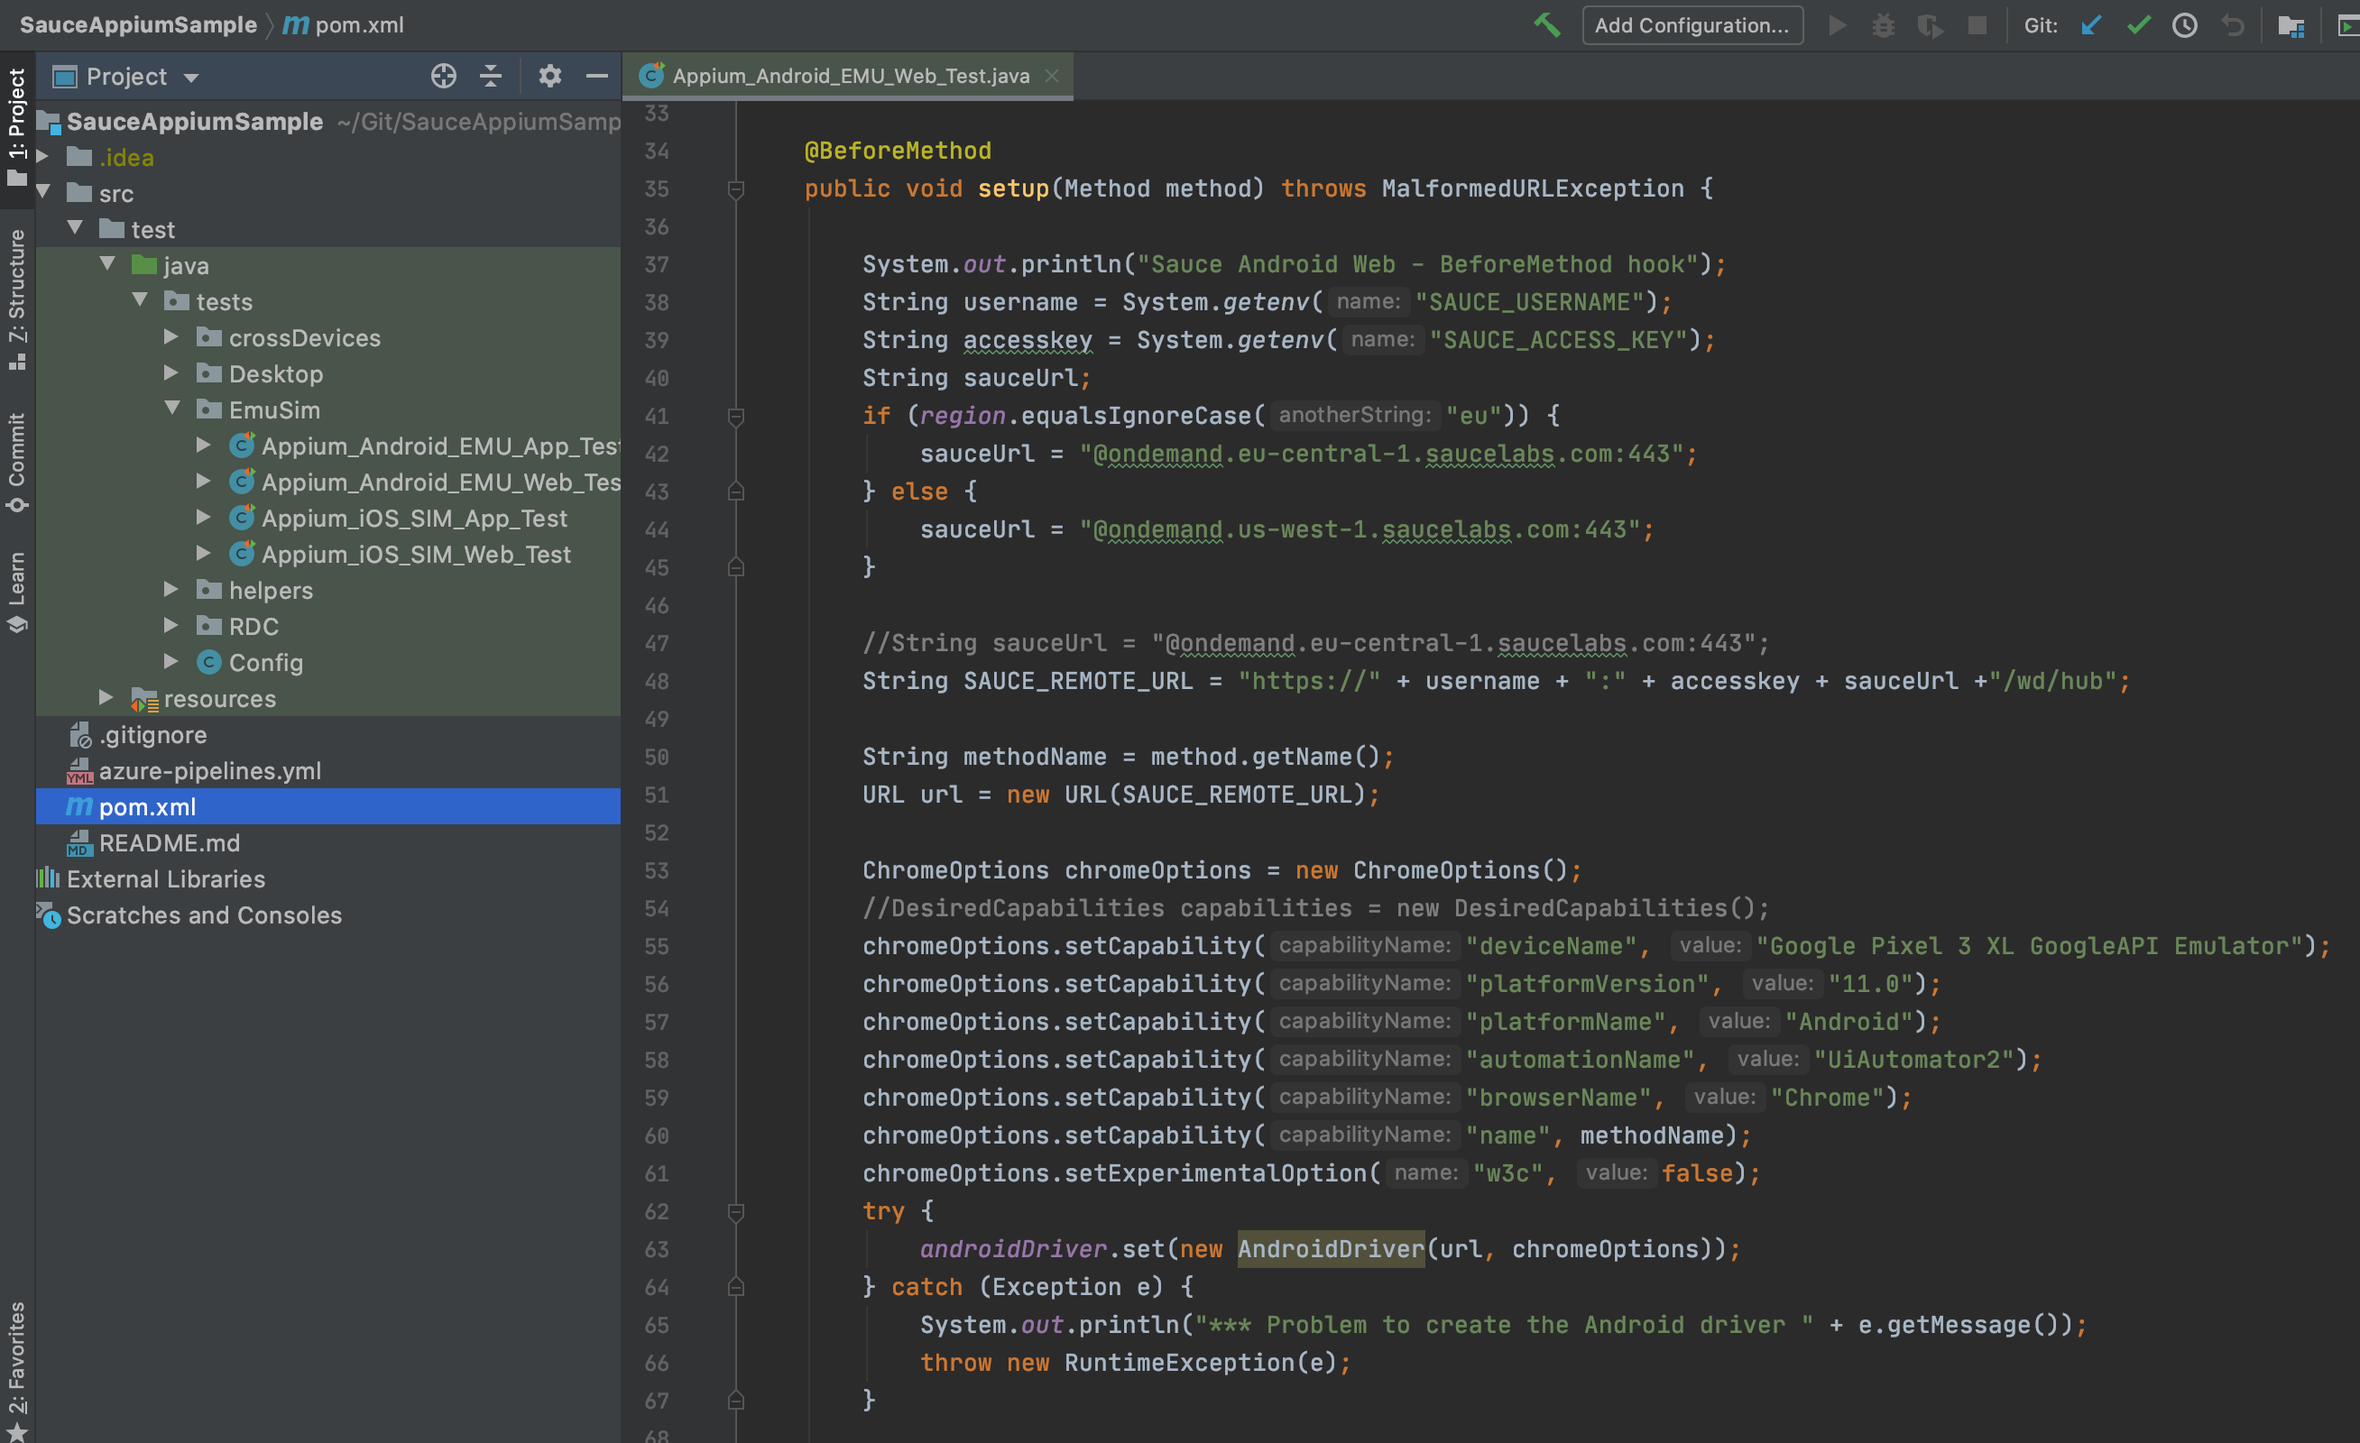
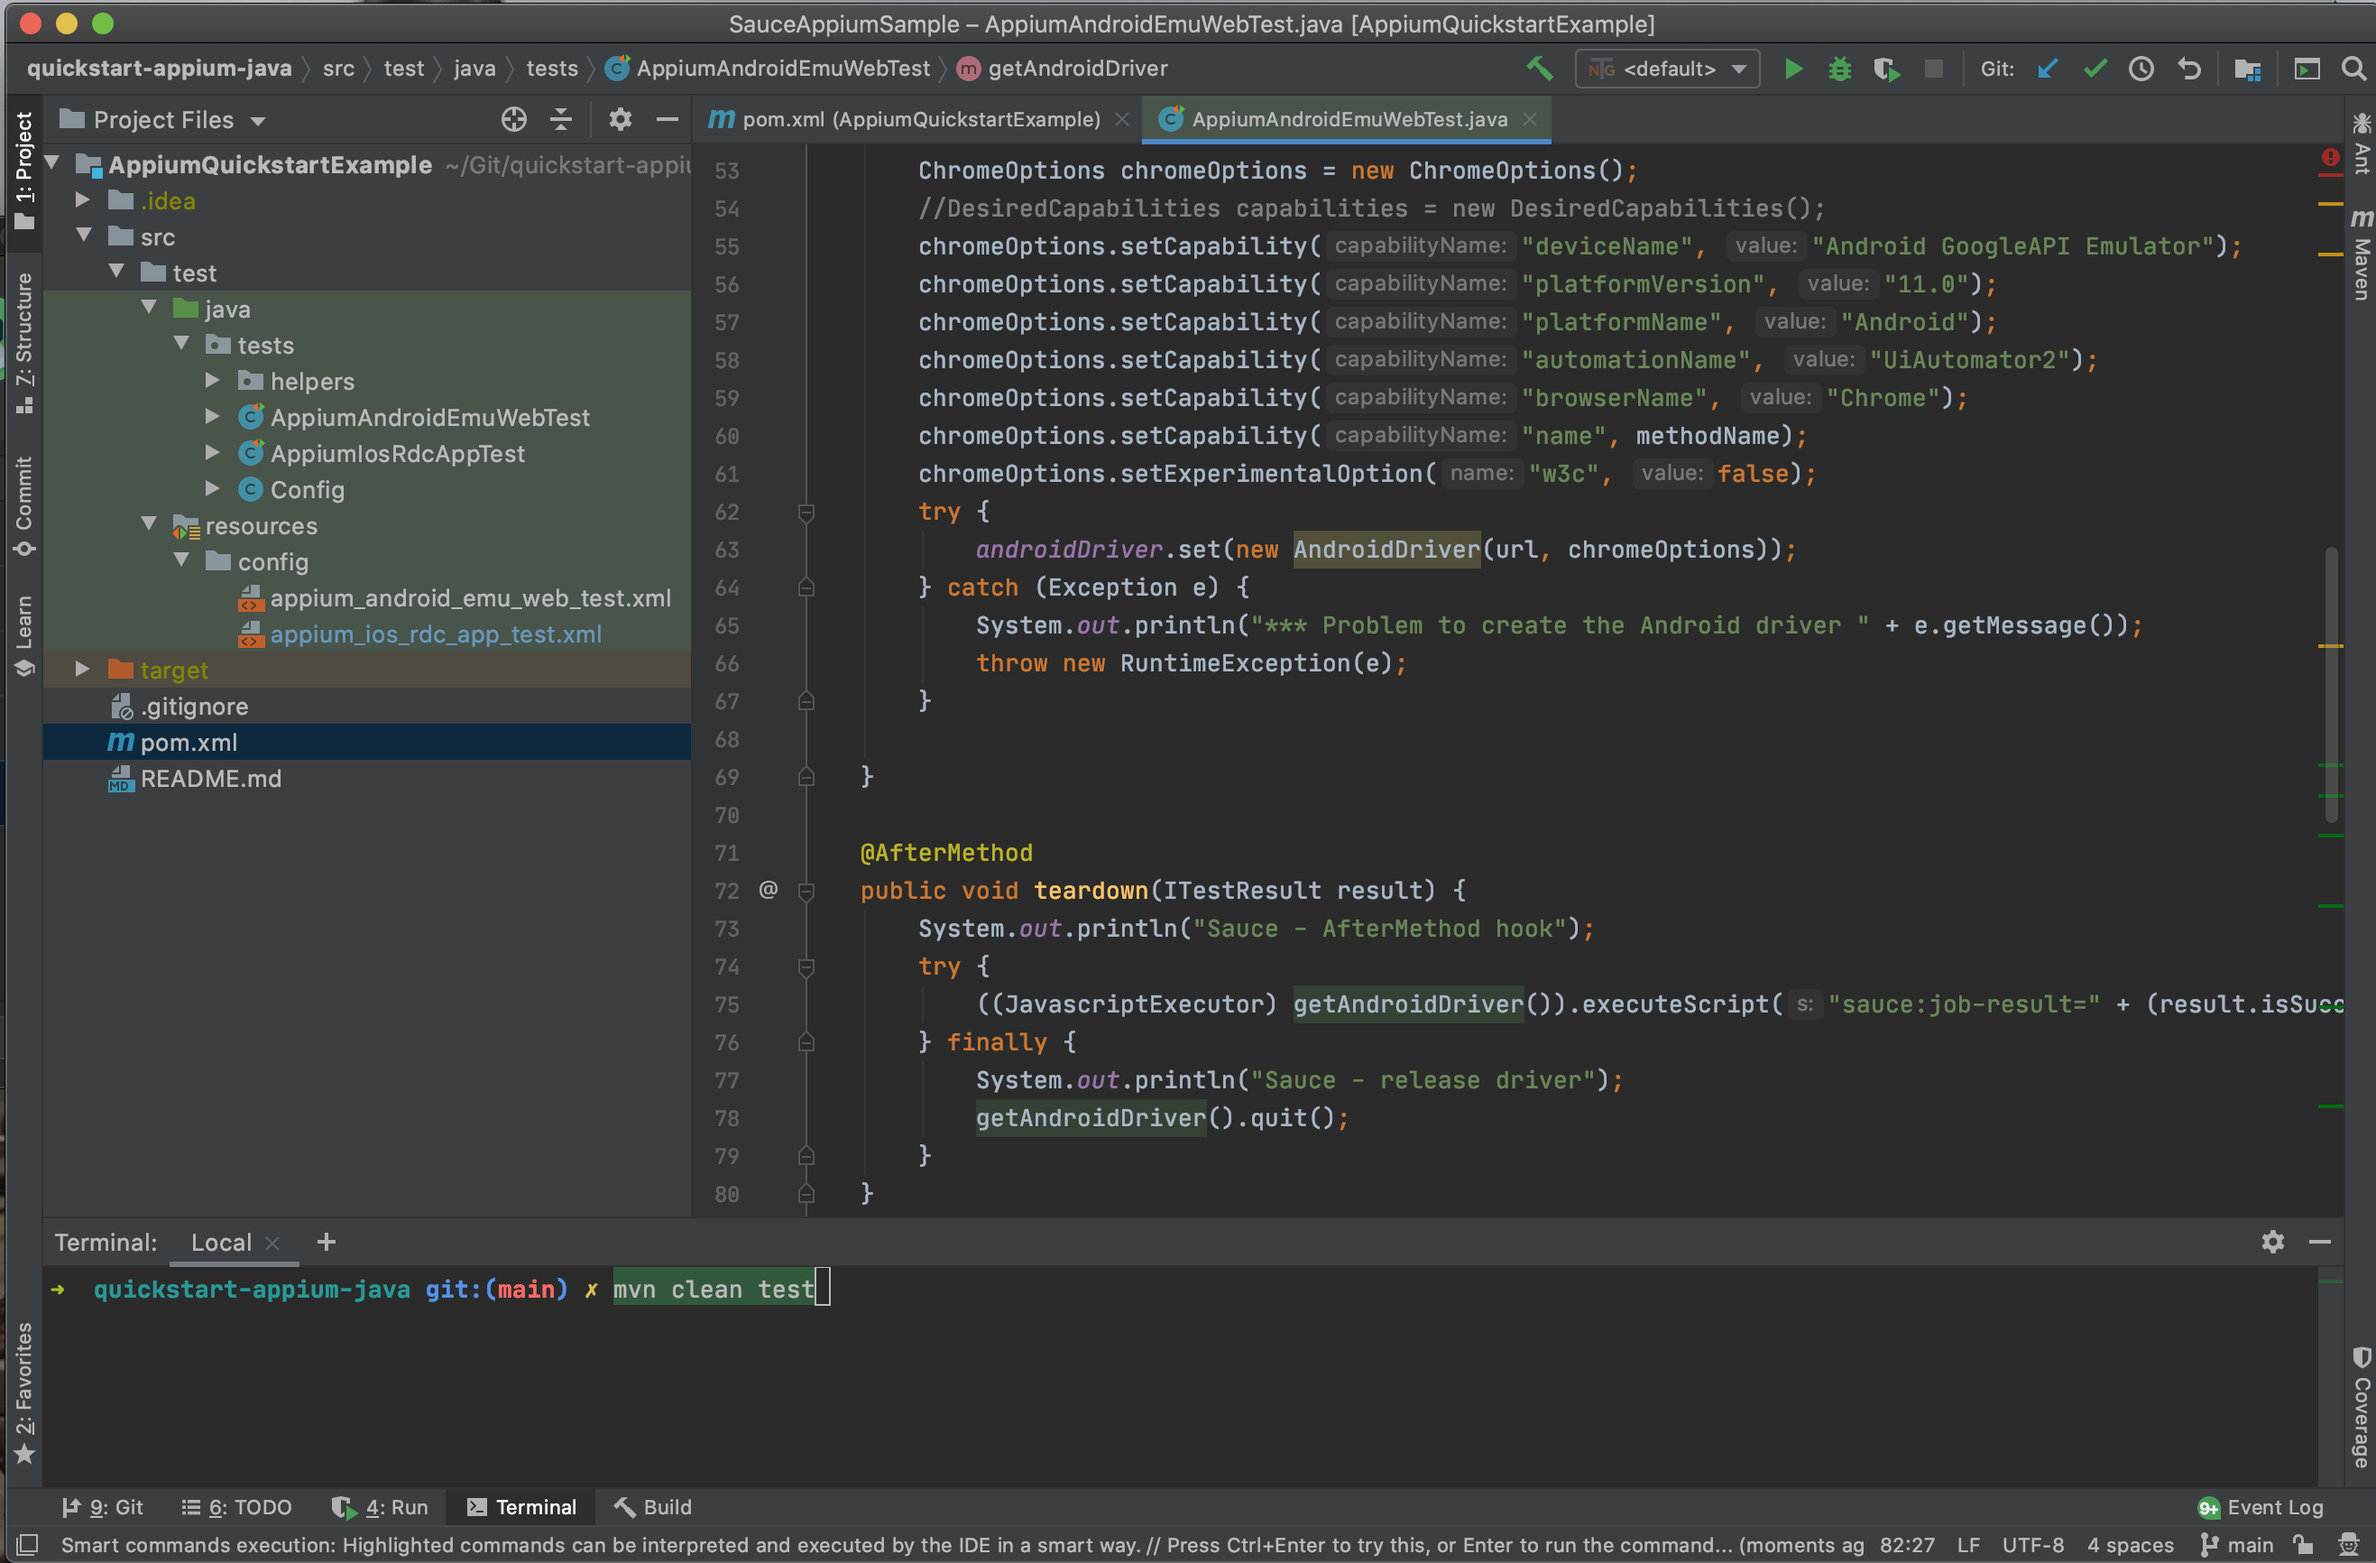
first draft

diff --git a/docs/mobile-apps/automated-testing/appium.md b/docs/mobile-apps/automated-testing/appium.md
@@ -8,14 +8,14 @@ import useBaseUrl from '@docusaurus/useBaseUrl';
 import Tabs from '@theme/Tabs';
 import TabItem from '@theme/TabItem';
 
-This page is intended to provide you with instructions on how to quickly setup Appium tests with Java using the TestNG test runner on an Android Emulator or iOS Simulator, and run tests using the Sauce Labs App and Virtual Device Cloud.
+This page is intended to provide you with instructions on how to quickly setup Appium tests with Java using the TestNG test runner on an Android Emulator or iOS Simulator, and run tests using the Sauce Labs App and Virtual Device Cloud. To see a comprehensive list of example, [check out the appium directory in our demo-java repo](https://github.com/saucelabs-training/demo-java/tree/dff5fd61b8e152efe59e4a8c9e75c644de4e51e0/appium-examples).
 
 You can see more detailed and comprehensive instructions for all use cases can be found in the [Real Devices](https://docs.saucelabs.com/mobile-apps/automated-testing/appium/real-devices) and [Virtual Devices](https://docs.saucelabs.com/mobile-apps/automated-testing/appium/virtual-devices) docs.
 
 
 ## What You'll Need
 
-* [Sample Tests](https://github.com/eyaly/SauceAppiumSample)
+* [Sample Tests](https://github.com/saucelabs-training/quickstart-appium-java)
 * The [Swag Labs Sample App](https://github.com/saucelabs/sample-app-mobile/releases) (App Tests)
 * A [Sauce Labs Username and Access Key](https://saucelabs.com/sign-up)
 * An IDE such as [IntelliJ IDEA](https://www.jetbrains.com/idea/download/#section=mac)
@@ -29,9 +29,9 @@ Make sure you [have Java, an IDE, and Maven installed](https://training.saucelab
 You will also want to set your `SAUCE_USERNAME` and `SAUCE_ACCESS_KEY` as [environment variables](https://www.youtube.com/watch?v=3K1Eu0eTha8).
 
 ### Step 2: Get Test Code
-In the [Sauce Appium sample repo](https://github.com/eyaly/SauceAppiumSample/tree/master/src/test), you will be running the test in the `/src/test/java/tests/EmuSim` directory called `Appium_Android_EMU_Web_Test.java`
+In the [Sauce Appium sample repo](https://github.com/saucelabs-training/quickstart-appium-java/tree/main/src/test/java/tests), you will be running the test in the `/src/test/java/tests` directory called `AppiumAndroidEmuWebTest.java`
 
-With TestNG you specify the tests you want to run using an .xml file to specify which tests are run in the`/resources/xml` [directory](https://github.com/eyaly/SauceAppiumSample/tree/master/src/test/resources/config), by editing the `pom.xml` file. Update the `testngXmlFile` tag to use the correct TestNG xml file:
+With TestNG you specify the tests you want to run using an .xml file in the`/resources/xml` [directory](https://github.com/saucelabs-training/quickstart-appium-java/tree/main/src/test/resources/config), by editing the `pom.xml` file. Update the `testngXmlFile` tag to use the correct TestNG xml file:
 
 ```
 <testngXmlFile>appium_android_emu_web_test.xml</testngXmlFile>
@@ -112,15 +112,15 @@ Video - **[Android Appium Test Environment Setup](https://www.youtube.com/watch?
 ## Quickstart – Test a Mobile App on Sauce Labs Real Devices
 
 ### Step 1: Install Dependencies
-Make sure you [have Java, an IDE, and Maven installed](https://training.saucelabs.com/codelabs/Module1-SeleniumJava/index.html?index=..%2F..SeleniumJava#4) on your computer. To test a mobile web browser you will need either Android Studio or XCode to run an Emulator/ Simulator for testing on.
+Make sure you [have Java, an IDE, and Maven installed](https://training.saucelabs.com/codelabs/Module1-SeleniumJava/index.html?index=..%2F..SeleniumJava#4) on your computer.
 
 You will also want to set your `SAUCE_USERNAME` and `SAUCE_ACCESS_KEY` as [environment variables](https://www.youtube.com/watch?v=3K1Eu0eTha8).
 
 
 ### Step 2: Get Test Code
-In the [Sauce Appium sample repo](https://github.com/eyaly/SauceAppiumSample/tree/master/src/test), you will be running the test in the `/src/test/java/tests/RDC` directory called `Appium_iOS_RDC_App_Test.java`
+In the [Sauce Appium sample repo](https://github.com/saucelabs-training/quickstart-appium-java/tree/main/src/test/java/tests), you will be running the test in the `/src/test/java/tests` directory called `AppiumIosRdcAppTest.java`
 
-With TestNG you specify the tests you want to run using an .xml file to specify which tests are run in the`/resources/xml` [directory](https://github.com/eyaly/SauceAppiumSample/tree/master/src/test/resources/config), by editing the `pom.xml` file. Update the `testngXmlFile` tag to use the correct TestNG xml file:
+With TestNG you specify the tests you want to run using an .xml file in the`/resources/xml` [directory](https://github.com/saucelabs-training/quickstart-appium-java/tree/main/src/test/resources/config), by editing the `pom.xml` file. Update the `testngXmlFile` tag to use the correct TestNG xml file:
 
 ```
 <testngXmlFile>appium_ios_rdc_app_test.xml</testngXmlFile>
@@ -132,8 +132,6 @@ Java tests using the TestNG framework rely on the `pom.xml` file to import the c
 ```
 <appium.version>7.4.1</appium.version>
 ```
-
-<img src={useBaseUrl('img/appium-web-capabilities.png')} alt="Appium Capabilities" width="800"/>
 
 ### Step 4: Set Up Your App
 Use your own app, or grab the latest [Swag Labs App](https://github.com/saucelabs/sample-app-mobile/releases).
@@ -160,4 +158,8 @@ automationName: "XCuiTest"
 app: "iOS.RealDevice.SauceLabs.Mobile.Sample.app.2.7.1.ipa",
 ```
 
-<img src={useBaseUrl('img/mobile-apps/appium-web-capabilities.png')} alt="Appium Capabilities" width="800"/>
+<img src={useBaseUrl('img/mobile-apps/appium-app-capabilities.png')} alt="Appium Capabilities" width="800"/>
+
+## Run Your Tests
+
+From you machine, either use the command `mvn clean test` or right click on the test you would like to run from your IDE to run your tests.  If you would like to skip Step 2, simply add the flag `-DtestngXmlFile=appium_ios_rdc_app_test.xml` and to change data centers, add the flag `-Dregion=us`
